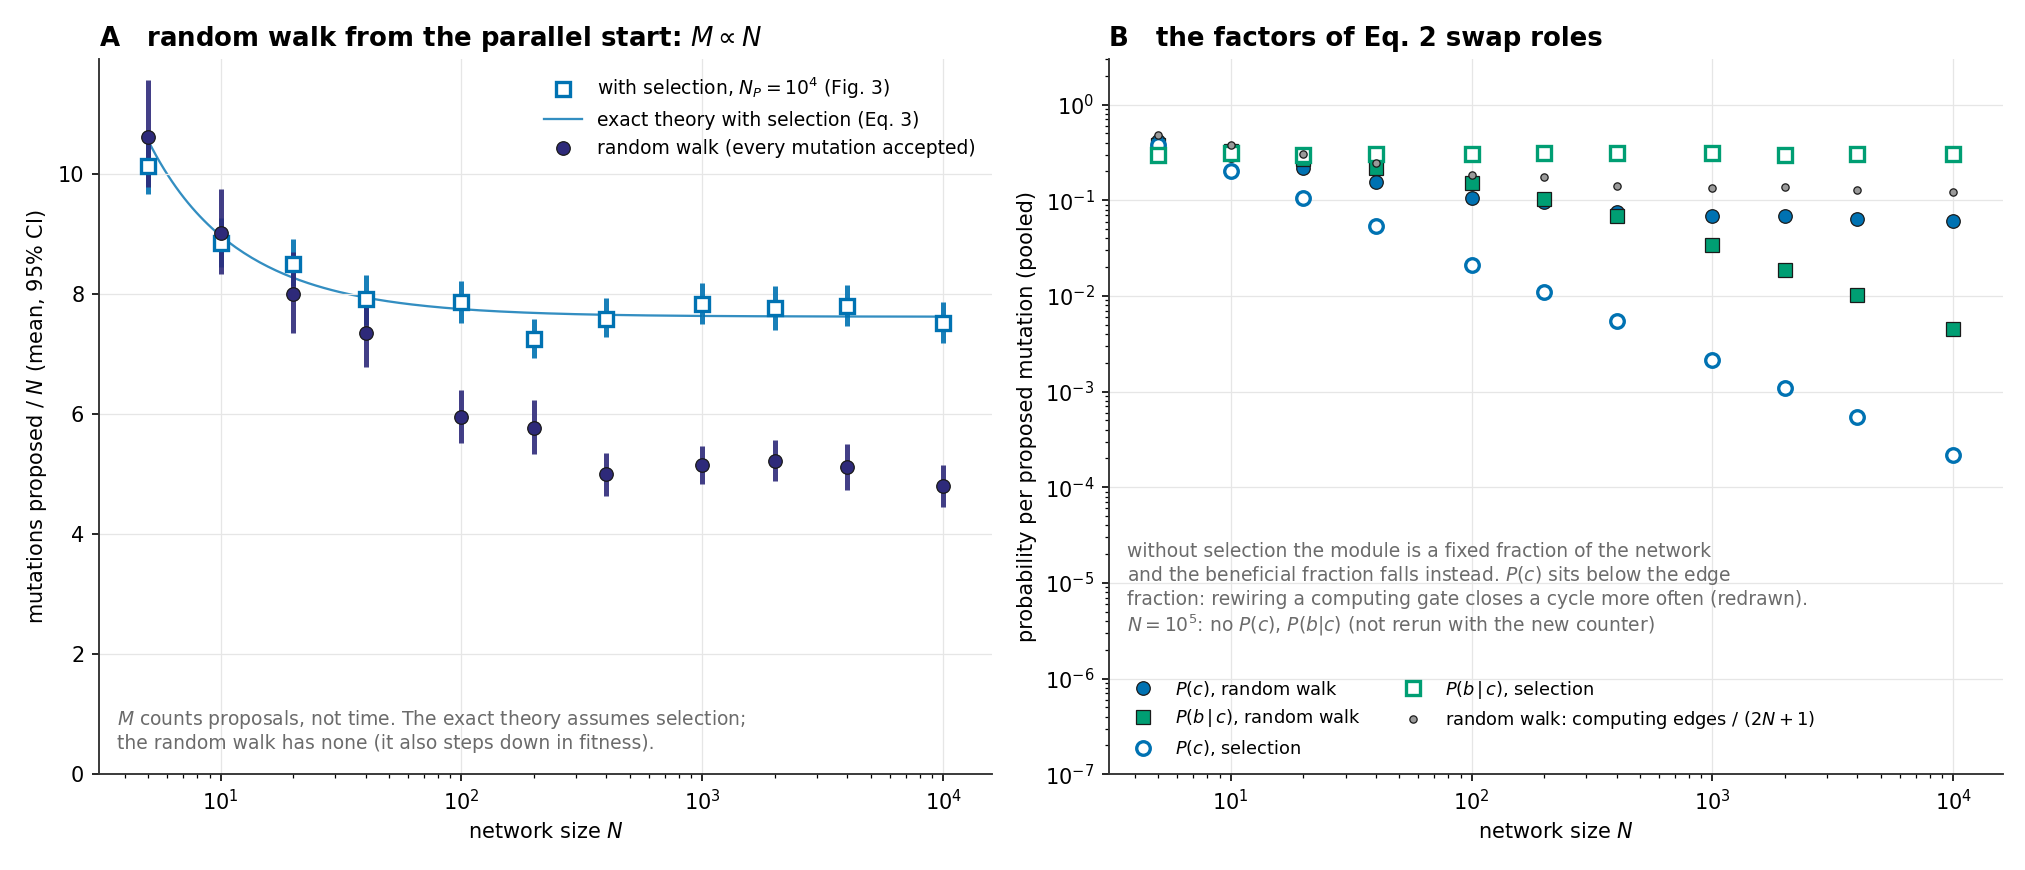
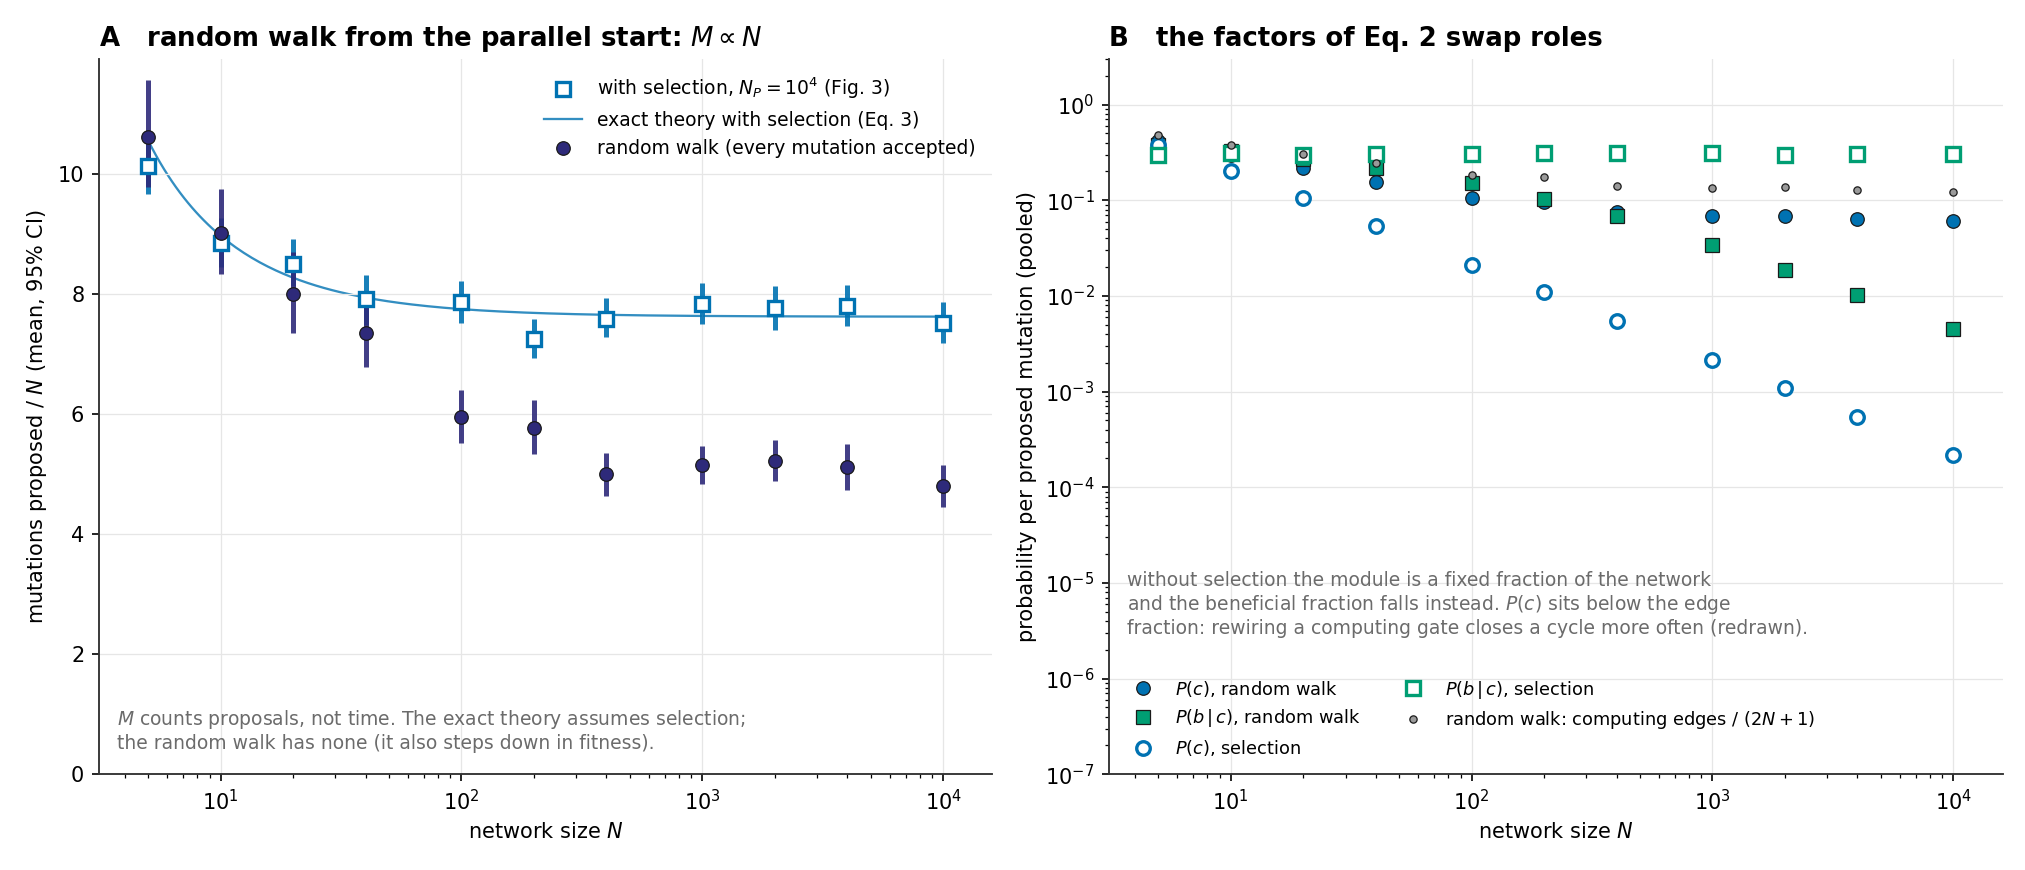
rw N = 1e5 rerun with n_comp (M and fates bit-identical, 112/112): S1B complete to 1e5, caveats removed; rw P(c) slope -0.04 and P(b|c) slope -0.93 over 1e3-1e5 (32/32)

Changed region(s): [[0.56, 0.6207, 0.9022, 0.7448]]

diff --git a/paper_replication/checks.py b/paper_replication/checks.py
@@ -183,7 +183,7 @@ def random_walk():
     check('rw pooled P(c) / computing-edge fraction = 0.50 ± 0.05 for N >= 1e3 (cycle redraws)',
           all(0.45 < x < 0.55 for x in big), f'ratio {min(big):.3f}–{max(big):.3f} (all N: {min(ratio):.3f}–{max(ratio):.3f})')
     s = slope(pc, 1000, 1e5)
-    check('rw pooled P(c) ~ constant over 1e3–4e4 (|slope| < 0.06)', abs(s) < 0.06,
+    check('rw pooled P(c) ~ constant over 1e3–1e5 (|slope| < 0.06)', abs(s) < 0.06,
           f'slope {s:+.3f}, values {pc[pc[:, 0] >= 1000, 1].min():.3f}–{pc[pc[:, 0] >= 1000, 1].max():.3f}')
     pb = pooled('rw', 'n_ben', 'n_comp', nmax=10**7, scale=lambda n: n)
     m = pb[pb[:, 0] >= 1000]

diff --git a/paper_replication/figures.py b/paper_replication/figures.py
@@ -915,8 +915,7 @@ def figS1(outdir, big):
     ax.legend(loc='lower left', fontsize=8.5, ncol=2)
     note(ax, 'without selection the module is a fixed fraction of the network\n'
              'and the beneficial fraction falls instead. $P(c)$ sits below the edge\n'
-             'fraction: rewiring a computing gate closes a cycle more often (redrawn).\n'
-             '$N = 10^5$: no $P(c)$, $P(b|c)$ (not rerun with the new counter)',
+             'fraction: rewiring a computing gate closes a cycle more often (redrawn).',
          loc=(0.02, 0.19), ha='left')
     ax.set_ylim(1e-7, 3); ax.keep_ylim = True
     title(ax, 'B   the factors of Eq. 2 swap roles')

diff --git a/paper_replication/CHANGES.md b/paper_replication/CHANGES.md
@@ -210,7 +210,7 @@ all automated.
     fitness.
 - **B, which was "module grows as N^0.83":** replaced by pooled P(c) and P(b|c).
   - Without selection, P(c) levels off at about 0.06 per proposal (slope
-    −0.05 over N = 10³–4·10⁴): the module is a fixed fraction of the network.
+    −0.04 over N = 10³–10⁵): the module is a fixed fraction of the network.
   - The computing-edge fraction itself is about 0.12. P(c) is about half of
     that because computing gates sit upstream: in random-walk networks about 60% of
     draws on computing edges close a cycle against about 10% on other edges, and the redraw moves the proposal
@@ -336,9 +336,9 @@ the random walk are fits over curved data that the exact theory does not cover.
   - The rejected per-run estimator gives P(b|c) = 0.40, not 4/13, as predicted.
 - **Parallel start, N_P = 10:** typical-run N·P(c) flat (2.8–3.1); pooled P(c)
   flat (slope −0.08); pooled P(b|c) slope −0.92; N·P(c)P(b|c) = 0.72–0.79.
-- **Random walk:** pooled P(c) flat at 0.058–0.069 (slope −0.05) and 0.49–0.86
+- **Random walk:** pooled P(c) flat at 0.058–0.069 (slope −0.04) and 0.49–0.86
   of the computing-edge fraction (0.49–0.51 for N ≥ 10³); pooled P(b|c) slope
-  −0.91 (N·P(b|c) rises from 34 to 47, so the approach to 1/N is slow).
+  −0.93 (N·P(b|c) rises from 34 to 47, so the approach to 1/N is slow).
 - **Title claims:** beneficial fixations 2.00–2.12 (Fig. 3C); chain pooled
   P(c) ≥ 0.97, P(b|c) 0.05–0.23, P_fix 0.29–0.31 (Fig. 5F); chain at N_P = 10
   typical-run P(c) = 1.000, pooled 0.54–0.99 (Fig. S5C).

diff --git a/paper_replication/README.md b/paper_replication/README.md
@@ -47,9 +47,6 @@ The N_P = 10 runs and the random walk stop below 10⁶. Without strong selection
 the computing module drifts to thousands of gates in some runs. Every mutation
 then costs O(module) to evaluate.
 
-`rw_N100000.npz` was not rerun with the new `n_comp` counter, because it costs
-37 CPU-hours. Its other columns are identical, since the seeds are the same.
-
 ## Observables (`faster_circuit/observe.py`, per run)
 
 - **M, and the fates of proposals:** fixed or lost; beneficial, neutral or
